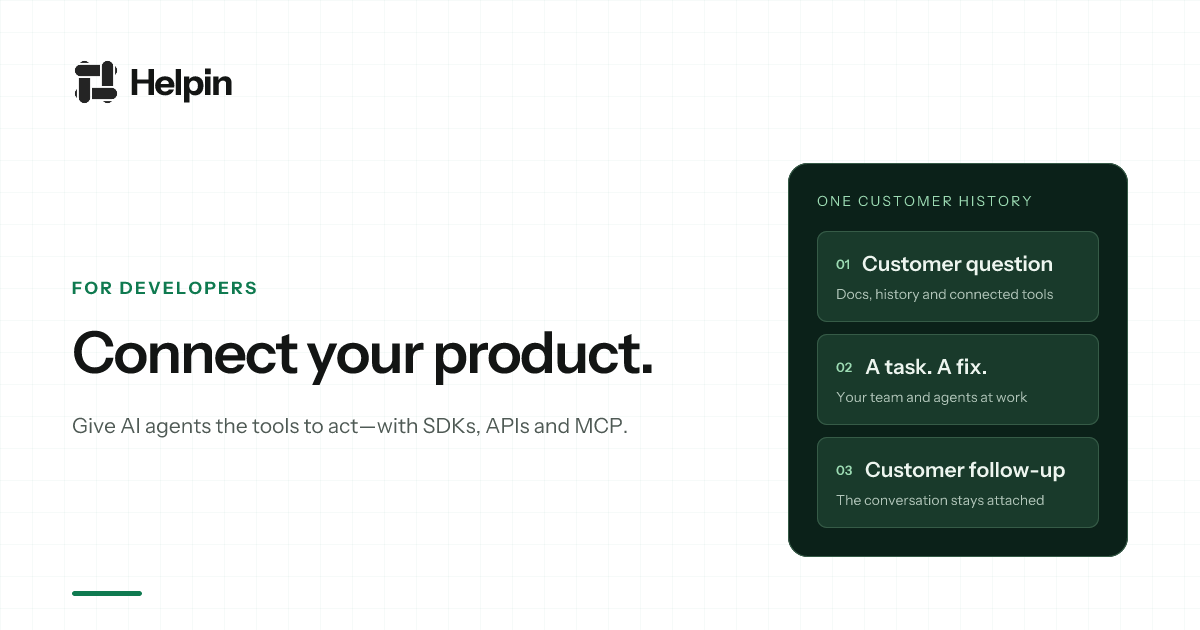
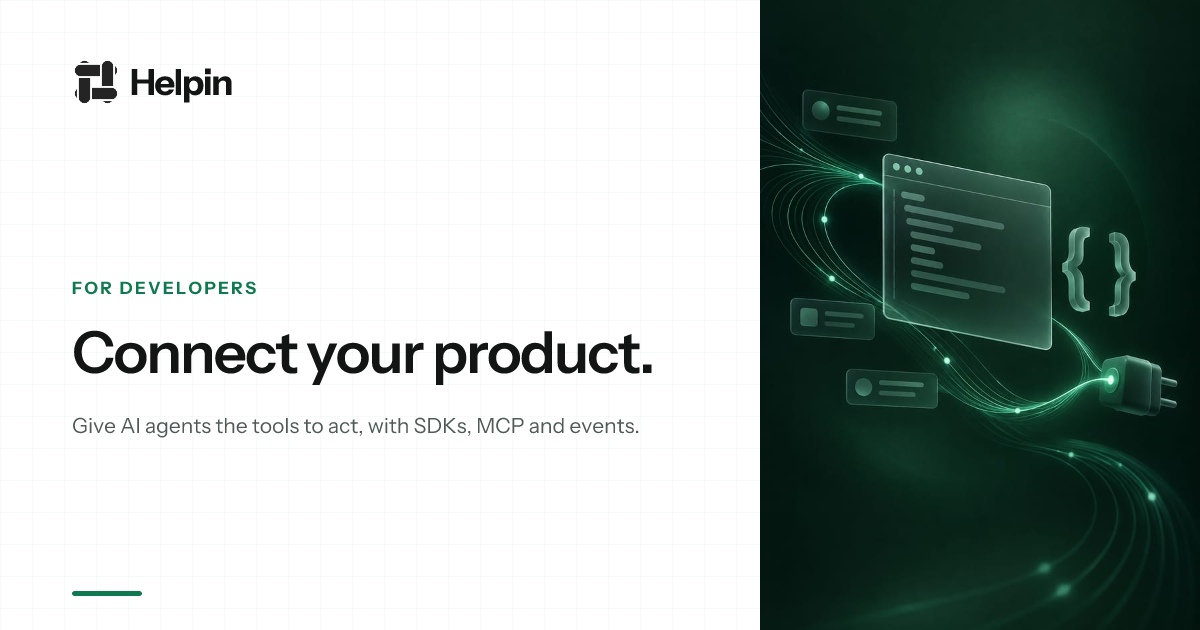
feat(website): refresh OG cards with current headlines and page artwork
Update card headlines to match the rewritten pages, and add a text-free artwork panel per page generated with gpt-image-2.5-sunburst. The artwork is committed and composited at build time, so builds stay offline; prompts and the regeneration steps live in scripts/generate-og-art.py and scripts/assets/og-art/README.md.

Changed region(s): [[0.6167, 0.0, 1.0, 1.0], [0.3083, 0.6635, 0.5242, 0.6937]]

diff --git a/website/src/lib/metadata.ts b/website/src/lib/metadata.ts
@@ -25,7 +25,7 @@ export const PAGE_SEO = {
       'Self-host the open-source product or choose Helpin Cloud with unlimited teammates and monthly AI usage. Compare plans, hosting and Enterprise licensing.',
     canonicalPath: '/pricing',
     imagePath: '/og/helpin-pricing-green.png',
-    imageAlt: 'Helpin pricing — One platform. Your whole team, connected.',
+    imageAlt: 'Helpin pricing — Every module. Every teammate. One price.',
   },
   privacy: {
     title: 'Privacy Policy — Helpin',

diff --git a/website/scripts/generate-og-art.py b/website/scripts/generate-og-art.py
@@ -1,0 +1,69 @@
+"""Generate text-free artwork options for the website's social preview (OG) cards.
+
+The artwork is generated once, reviewed by a person, then committed as
+scripts/assets/og-art/<slug>.jpg. generate-og-images.mjs composites it into the
+cards at build time, so builds never call the API. See scripts/assets/og-art/README.md.
+
+Usage:
+    OPENAI_API_KEY=... python3 scripts/generate-og-art.py [--model M] [--n N] <slug> [<slug> ...]
+
+Options are written to og-art-options/<slug>-<i>.png (git-ignored scratch output).
+"""
+import argparse, base64, json, os, sys, urllib.error, urllib.request
+
+STYLE = (
+    "A premium, restrained editorial illustration for a software brand, vertical composition. "
+    "Deep forest-green background (#0B2119) with a subtle lighter green radial glow. "
+    "Fine flowing line bundles in mint green (#9CDBB3) and emerald (#0F7A50), like smooth streamlines in a vortex, "
+    "curving gently through the frame with soft luminous highlights. "
+    "{subject} "
+    "UI elements are minimal frosted-glass cards with rounded corners, thin mint outlines, and blank horizontal bars instead of any writing. "
+    "Generous negative space, calm and precise, high-end SaaS brand aesthetic, subtle film grain. "
+    "Absolutely no text, no letters, no numbers, no words, no logos, no watermarks, no people, no faces."
+)
+
+SUBJECTS = {
+    'home': "Many thin flowing lines from all edges converge into one softly glowing core in the middle of the frame, suggesting a single shared customer history.",
+    'pricing': "Only flowing line bundles, no cards or objects: a calm wave of lines sweeps across the lower third and the top edge, leaving a large, empty, softly lit dark area in the middle of the frame.",
+    'product': "Six small frosted-glass tiles float in a loose ring, each connected by a fine glowing line to a single bright core at the center.",
+    'customer-support': "A vertical stack of three blank chat bubbles follows a glowing path that ends at a small circular checkmark badge, suggesting a request that was resolved.",
+    'projects': "Three slim kanban columns of blank task cards; one glowing line runs from a small chat bubble at the top into one highlighted card, linking a customer request to the work.",
+    'crm': "A left-to-right sequence of four rounded pipeline stages with small deal cards moving through them, and a soft pulse ring radiating from the most advanced card.",
+    'meetings': "A smooth audio waveform on the upper part of the frame flows downward and transforms into a neat stack of three blank task cards.",
+    'knowledge': "A layered stack of blank document pages, with a soft vertical beam of light passing through them like a search highlighting one page.",
+    'ai-agents': "Eight small glowing orbs travel on elegant elliptical orbits around one brighter central core, like coordinated specialists.",
+    'developers': "A frosted-glass terminal window with blank lines of code, a pair of curly-brace shapes floating nearby, and a small plug connector linked by a glowing line.",
+    'self-hosting': "A compact server block inside a dashed rounded boundary, with a few fine lines reaching out past the boundary to small optional nodes outside it.",
+    'branding': "A single elegant vortex of flowing mint lines spiraling around a calm, softly glowing center.",
+}
+
+
+def main():
+    parser = argparse.ArgumentParser()
+    parser.add_argument('--model', default='gpt-image-2.5-sunburst')
+    parser.add_argument('--n', type=int, default=2)
+    parser.add_argument('slugs', nargs='+', choices=sorted(SUBJECTS))
+    args = parser.parse_args()
+    key = os.environ.get('OPENAI_API_KEY')
+    if not key:
+        sys.exit('Set OPENAI_API_KEY')
+    os.makedirs('og-art-options', exist_ok=True)
+    for slug in args.slugs:
+        payload = {'model': args.model, 'prompt': STYLE.format(subject=SUBJECTS[slug]), 'n': args.n,
+                   'size': '1024x1536', 'quality': 'medium', 'output_format': 'png'}
+        req = urllib.request.Request('https://api.openai.com/v1/images/generations', data=json.dumps(payload).encode(),
+                                     headers={'Content-Type': 'application/json', 'Authorization': f'Bearer {key}'})
+        try:
+            result = json.load(urllib.request.urlopen(req, timeout=300))
+        except urllib.error.HTTPError as err:
+            print(f'{slug}: HTTP {err.code}: {err.read().decode()[:300]}')
+            continue
+        for i, item in enumerate(result['data'], 1):
+            path = f'og-art-options/{slug}-{i}.png'
+            with open(path, 'wb') as f:
+                f.write(base64.b64decode(item['b64_json']))
+            print(f'saved {path}')
+
+
+if __name__ == '__main__':
+    main()

diff --git a/website/scripts/assets/og-art/README.md b/website/scripts/assets/og-art/README.md
@@ -1,0 +1,19 @@
+# OG card artwork
+
+Text-free artwork panels for the website's social preview cards. `scripts/generate-og-images.mjs`
+draws all text (Instrument Sans) and places the matching panel on the right 440px of each card.
+A card without an artwork file falls back to its drawn visual.
+
+- Model: `gpt-image-2.5-sunburst`, 1024x1536, medium quality (September 2026)
+- Prompts: `STYLE` and `SUBJECTS` in `scripts/generate-og-art.py`
+- Stored as JPEG, 660x945 (the 440x630 panel at 1.5x), centre-cropped, quality 82
+
+## Regenerate a panel
+
+1. `OPENAI_API_KEY=... python3 scripts/generate-og-art.py <slug>` writes options to `og-art-options/`.
+2. Review the options and pick one. It must contain no text.
+3. Crop and compress it to `scripts/assets/og-art/<slug>.jpg` at 660x945. For example, with sharp:
+   `sharp(src).resize(660, 945, { fit: 'cover' }).jpeg({ quality: 82, mozjpeg: true })`.
+4. `HELPIN_OG_VARIANT=<slug> pnpm generate:og`, then check the card in `public/og/`.
+
+The pricing panel is a background only; its text is drawn by `pricingVisual(true)`.
